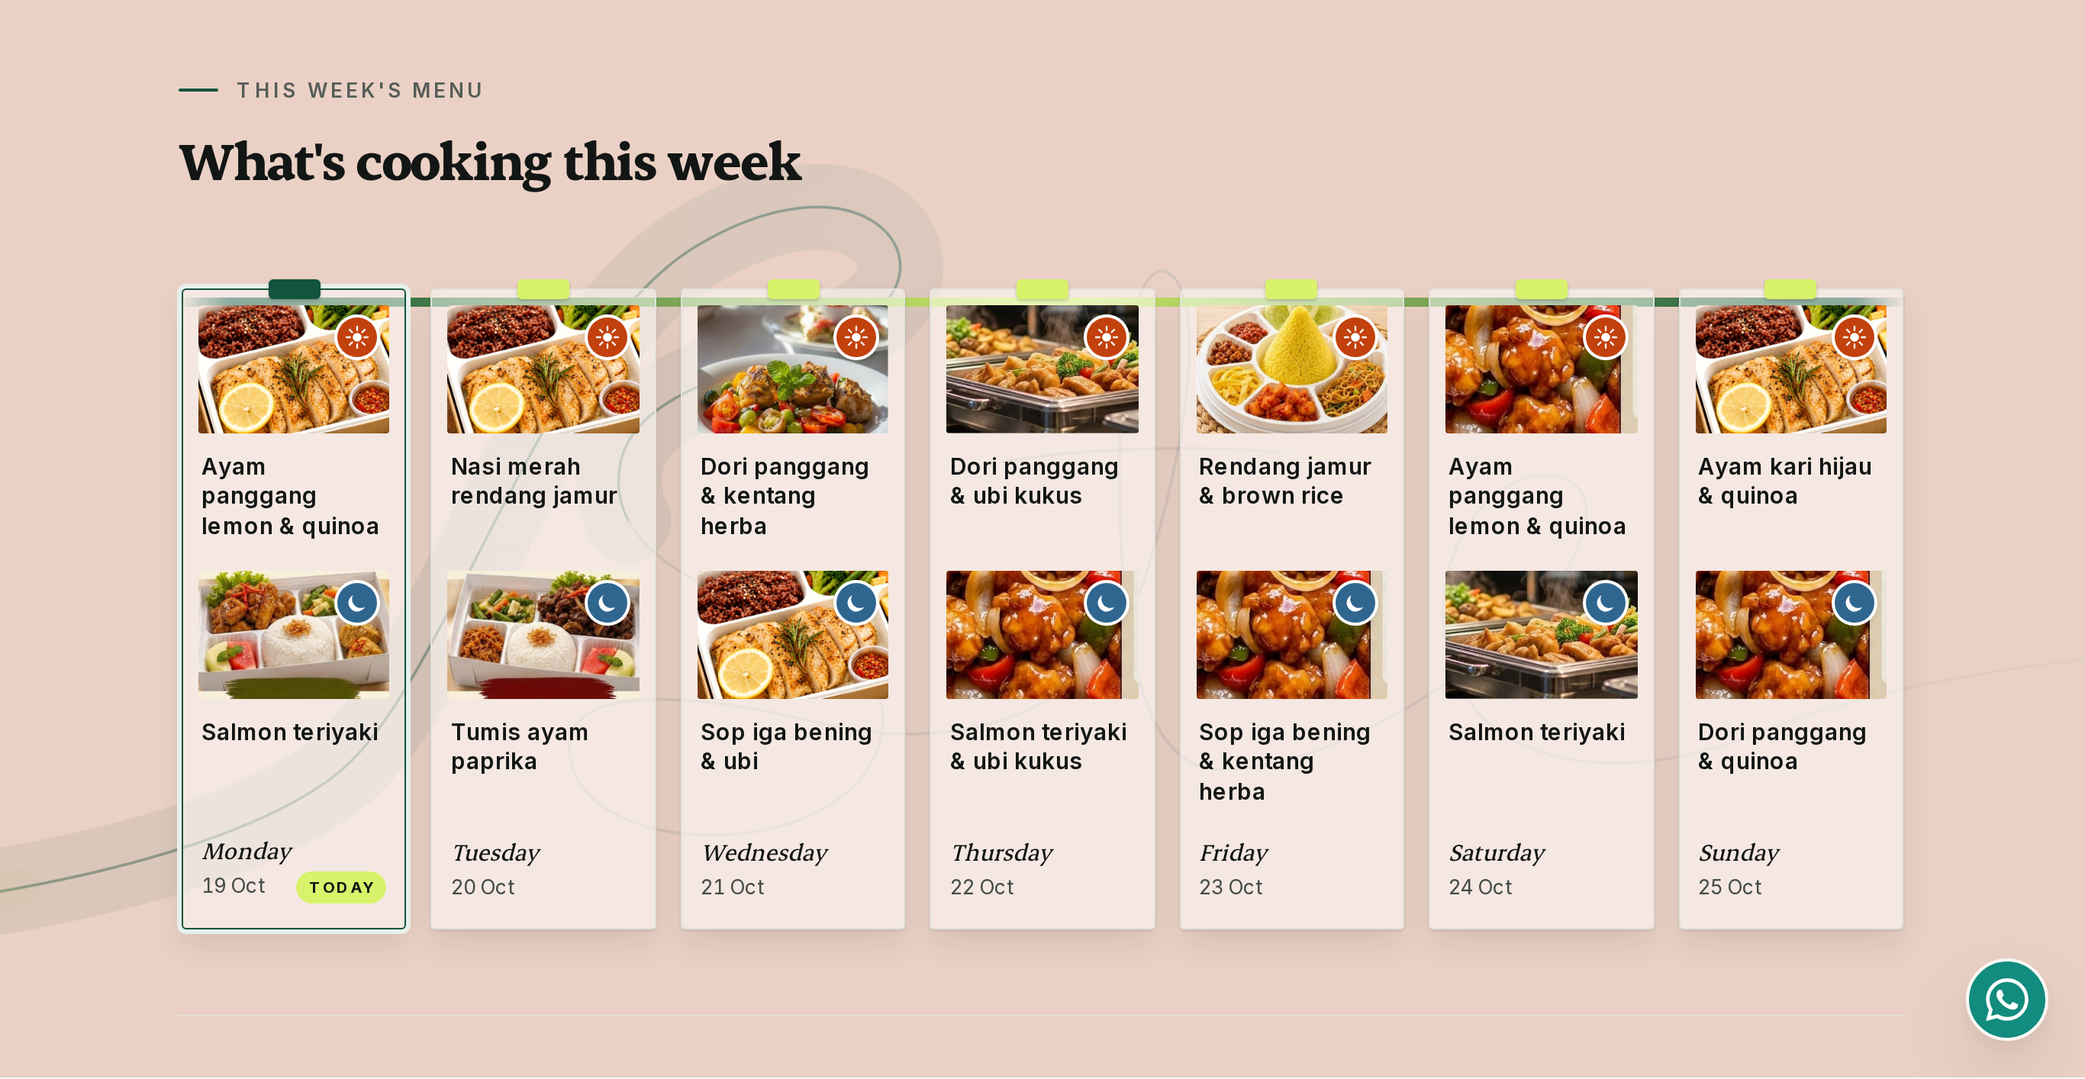
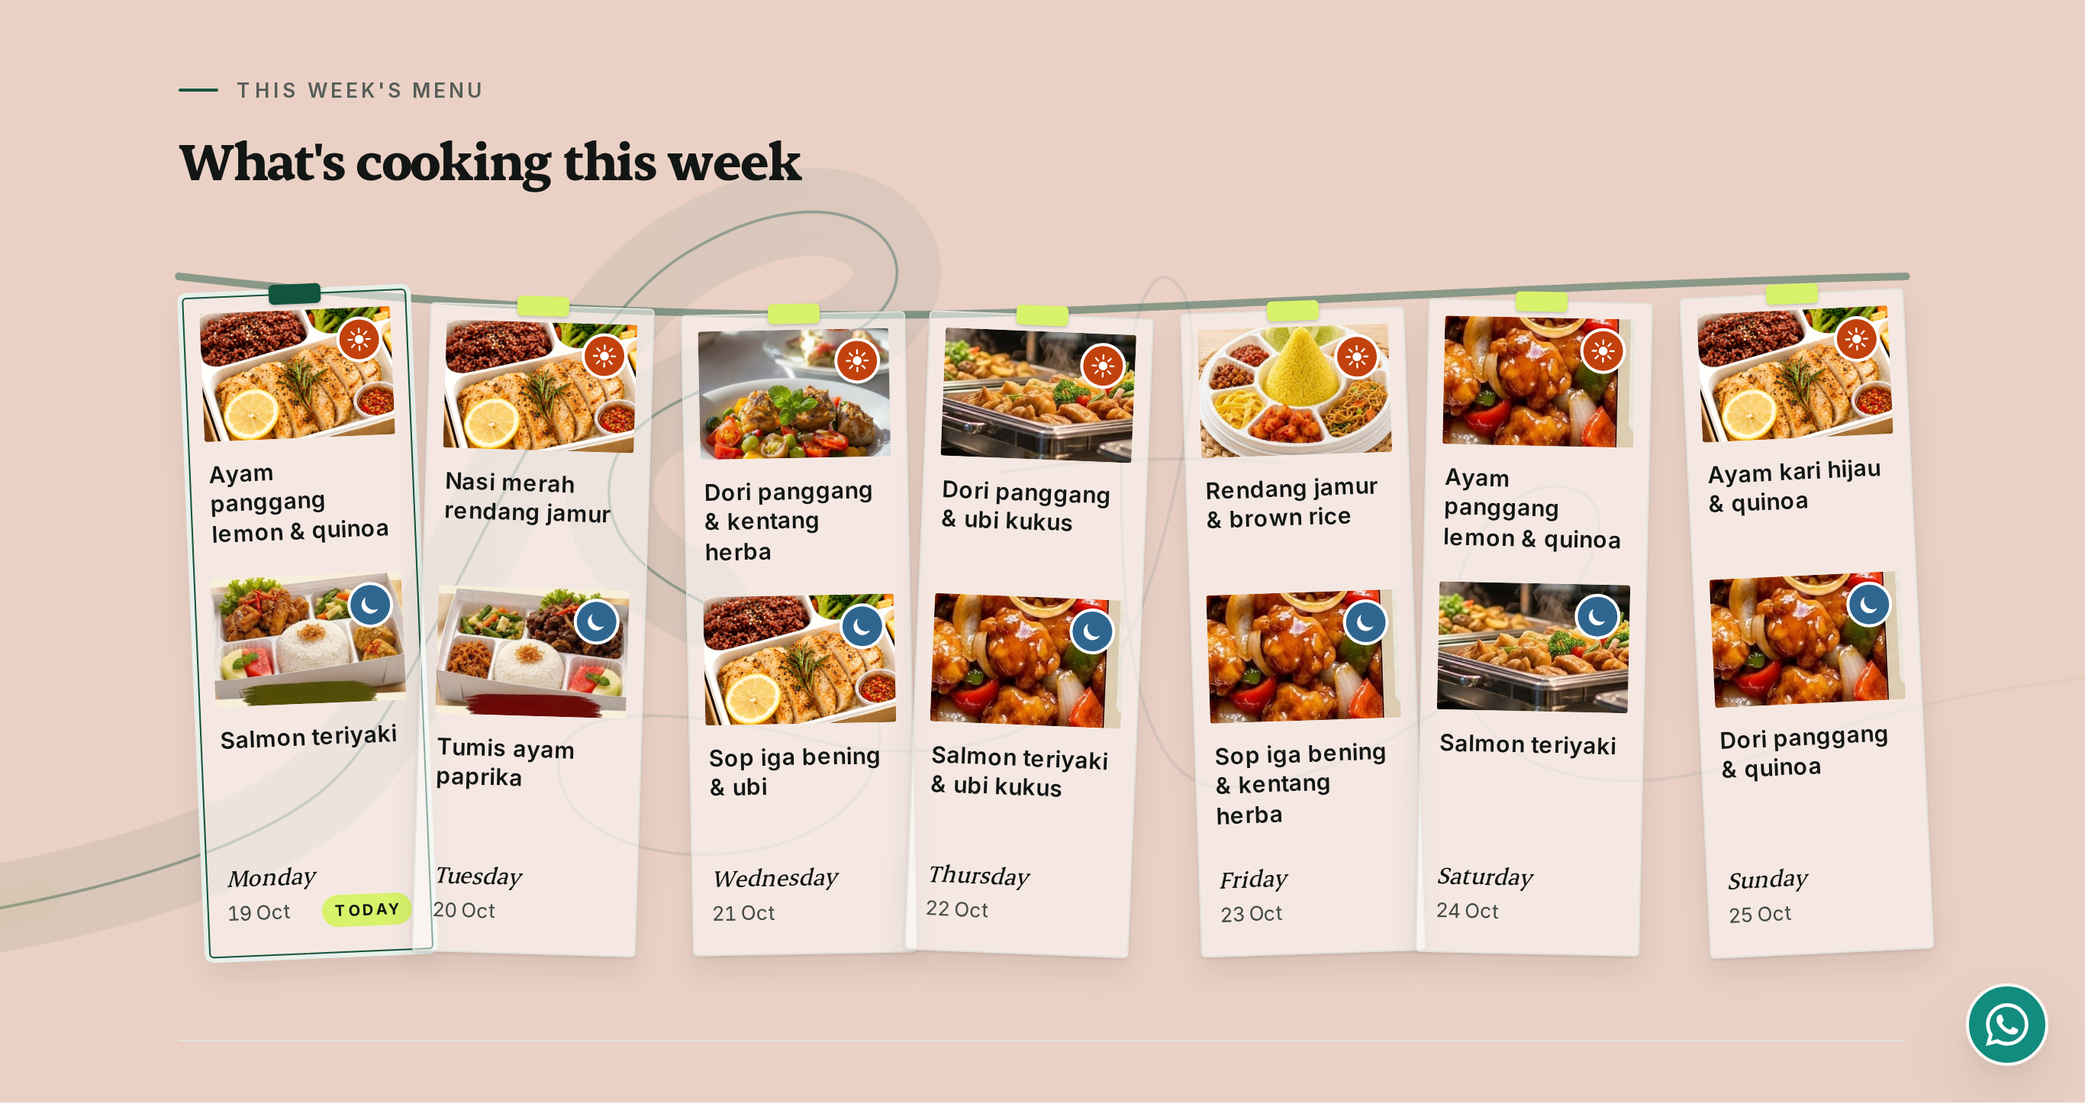
feat(home): hang the prints on a line, red crosses, orange popular flag
THE LINE (D76)
The week's photographs now hang the way prints hang on a drying string. Each
frame pivots from its peg rather than its centre, takes its own angle, and
hangs at the height the sagging line reaches at its own x — those drops are
read off the curve the line is drawn with, not guessed, so every peg actually
meets it.

The line had to stop being a background and become a real <svg>, because it has
to respond to the pointer. A transparent 26px-wide copy of the same curve sits
underneath as the hit target, so brushing the LINE sets it bobbing rather than
hovering anywhere in the section doing it, and :has() carries the sway from the
line out to the frames, staggered along the row.

This deliberately gives up the strict photo-row alignment of D70. The two
cannot both be true, and hanging is what was asked for second.

THE CROSS AND THE FLAG (D77)
The "not included" mark is red now. It is the one mark on the site that cannot
be pinned: the package card is a light green-grey in one theme and a dark green
in the other, and no single red clears 3:1 against both — the deep red that
reads at 3.90 on the light card measures 1.07 on the dark one, which is simply
invisible. So --cross flips with the theme, unlike every --ctl-* colour, and
the rejected single-value version is recorded as a failure.

"Most popular" becomes the pinned orange with white text (5.18) and a thumb
carrying a gradient so it catches the light (darkest stop 3.37). It is a shared
[…]

diff --git a/web/public/css/app.css b/web/public/css/app.css
@@ -400,7 +400,11 @@ tbody tr:hover { background: var(--warm); }
 
 .stats-strip { display: grid; grid-template-columns: repeat(2, 1fr); gap: var(--space-6); }
 @media (min-width: 720px) { .stats-strip { grid-template-columns: repeat(4, 1fr); } }
-.stat-item b { display: block; font-family: var(--font-display); font-size: var(--text-2xl);
+/* Centred, and the figure half again as large — it is the thing worth reading
+ * in this row, the label underneath only names it. */
+.stat-item { text-align: center; }
+.stat-item b { display: block; font-family: var(--font-display);
+  font-size: calc(var(--text-2xl) * 1.5);
   font-weight: var(--w-display); letter-spacing: var(--track-display); color: var(--ink); line-height: 1; }
 .stat-item .count { font-size: inherit; }
 .stat-item > span { display: block; font-size: var(--text-sm); color: var(--ink-faint); margin-top: var(--space-2); }
@@ -756,14 +760,7 @@ tbody tr:hover { background: var(--warm); }
 
 .weekstrip {
   display: grid; gap: var(--space-4);
-  /* The ribbon. `local` is what makes it scroll with the photographs. */
-  background-image: linear-gradient(90deg,
-      transparent 0, var(--brand) 3%, var(--accent) 50%, var(--brand) 97%, transparent 100%);
-  background-repeat: no-repeat;
-  background-size: 100% 6px;
-  background-position: 0 30px;
-  background-attachment: local;
-  padding-top: 24px;
+  padding-top: 20px;
   grid-auto-flow: column; grid-auto-columns: minmax(208px, 1fr);
   overflow-x: auto; overscroll-behavior-x: contain;
   scroll-snap-type: x proximity;
@@ -791,6 +788,80 @@ tbody tr:hover { background: var(--warm); }
 @media (min-width: 1180px) { .weekstrip { grid-auto-columns: 1fr; overflow-x: visible; } }
 
 /* ==========================================================================
+   D76 — the prints hang from the line.
+
+   Three things make it read as hanging rather than as a row of boxes: the
+   frames pivot from their PEG (`transform-origin: top center`), each one takes
+   a slightly different angle, and each hangs at the height the sagging line
+   reaches at its own x. The angles and drops are fixed per position, not
+   random at runtime — a layout that moves every reload is not a layout.
+
+   This deliberately gives up the strict photo-row alignment of D70. It cannot
+   have both, and hanging is what was asked for second.
+   ========================================================================== */
+.weekrail { position: relative; }
+.weekline {
+  position: absolute; z-index: 0; left: 0; right: 0; top: 0;
+  width: 100%; height: 56px; overflow: visible;
+  pointer-events: none;            /* the hit path re-enables itself below */
+}
+.weekline-ink {
+  fill: none; stroke: var(--brand); stroke-width: 5; stroke-linecap: round;
+  opacity: .45;
+  transform-box: fill-box; transform-origin: center;
+}
+/* A transparent, much fatter copy of the same curve: it is what the pointer
+ * can actually hit, so the effect fires on the LINE and not on the whole
+ * section. It is declared first so the visible path can be its sibling. */
+.weekline-hit {
+  fill: none; stroke: transparent; stroke-width: 26;
+  pointer-events: stroke;
+}
+.weekline-hit:hover ~ .weekline-ink { animation: lineTouch 1.15s var(--ease-soft); }
+
+@keyframes lineTouch {
+  0%   { transform: translateY(0) }
+  18%  { transform: translateY(3.2px) }
+  40%  { transform: translateY(-2.2px) }
+  62%  { transform: translateY(1.3px) }
+  82%  { transform: translateY(-.6px) }
+  100% { transform: translateY(0) }
+}
+/* The prints swing from their pegs when the line is brushed. :has() lets the
+ * sway live on the frames while the hover lives on the line; where it is not
+ * supported the line still bobs on its own. */
+@keyframes hangSwing {
+  0%   { rotate: var(--tilt) }
+  26%  { rotate: calc(var(--tilt) + 2.1deg) }
+  52%  { rotate: calc(var(--tilt) - 1.4deg) }
+  76%  { rotate: calc(var(--tilt) + .7deg) }
+  100% { rotate: var(--tilt) }
+}
+.weekrail:has(.weekline-hit:hover) .polaroid { animation: hangSwing 1.15s var(--ease-soft); }
+.weekrail:has(.weekline-hit:hover) .polaroid:nth-child(2) { animation-delay: .05s; }
+.weekrail:has(.weekline-hit:hover) .polaroid:nth-child(3) { animation-delay: .1s; }
+.weekrail:has(.weekline-hit:hover) .polaroid:nth-child(4) { animation-delay: .14s; }
+.weekrail:has(.weekline-hit:hover) .polaroid:nth-child(5) { animation-delay: .1s; }
+.weekrail:has(.weekline-hit:hover) .polaroid:nth-child(6) { animation-delay: .06s; }
+.weekrail:has(.weekline-hit:hover) .polaroid:nth-child(7) { animation-delay: .02s; }
+
+/* The hang: angle and drop per position. The drops follow the curve the line
+ * is drawn with, so every peg actually meets it. */
+.polaroid { --tilt: 0deg; --hang: 0px; }
+.weekstrip > .polaroid:nth-child(1) { --tilt: -2.4deg; --hang: 0px; }
+.weekstrip > .polaroid:nth-child(2) { --tilt: 1.7deg; --hang: 6px; }
+.weekstrip > .polaroid:nth-child(3) { --tilt: -1.1deg; --hang: 10px; }
+.weekstrip > .polaroid:nth-child(4) { --tilt: 2.3deg; --hang: 11px; }
+.weekstrip > .polaroid:nth-child(5) { --tilt: -1.9deg; --hang: 10px; }
+.weekstrip > .polaroid:nth-child(6) { --tilt: 1.2deg; --hang: 6px; }
+.weekstrip > .polaroid:nth-child(7) { --tilt: -2.7deg; --hang: 0px; }
+
+@media (prefers-reduced-motion: reduce) {
+  .weekline-hit:hover ~ .weekline-ink,
+  .weekrail:has(.weekline-hit:hover) .polaroid { animation: none; }
+}
+
+/* ==========================================================================
    D75 — the week is a row of polaroids strung on a ribbon.
 
    The frame is the whole idea: an even white border on three sides and a
@@ -816,9 +887,13 @@ tbody tr:hover { background: var(--warm); }
   padding: 10px 10px 0;
   display: flex; flex-direction: column;
   box-shadow: 0 1px 2px rgba(18, 22, 20, .10), 0 10px 20px rgba(18, 22, 20, .09);
-  transition: transform var(--dur) var(--ease), box-shadow var(--dur) var(--ease);
+  /* It pivots at the peg, like something actually hanging. */
+  transform-origin: top center;
+  rotate: var(--tilt);
+  margin-top: var(--hang);
+  transition: translate var(--dur) var(--ease), box-shadow var(--dur) var(--ease);
 }
-.polaroid:hover { transform: translateY(var(--lift)); box-shadow: var(--shadow-3); z-index: 3; }
+.polaroid:hover { translate: 0 var(--lift); box-shadow: var(--shadow-3); z-index: 3; }
 
 /* The clip that holds the photograph to the ribbon. */
 .polaroid::before {
@@ -1177,6 +1252,19 @@ tbody tr:hover { background: var(--warm); }
  * by its own height, so one card in three was out of step with the others. */
 .card-flag { position: absolute; top: var(--space-4); right: var(--space-4); margin: 0; z-index: 1; }
 
+/* The "most popular" flag: a pinned orange ribbon with a thumb that carries a
+ * gradient so it catches the light. White on the orange measures 5.18 and the
+ * thumb's darkest stop 3.37 — the icon only has to clear 1.4.11's 3:1. */
+.flag-popular {
+  display: inline-flex; align-items: center; gap: 6px;
+  background: var(--ctl-sun); color: #FFFFFF;
+  border-radius: var(--radius-pill); padding: 4px var(--space-3) 4px var(--space-2);
+  font-size: var(--text-xs); font-weight: 700; letter-spacing: .04em;
+  box-shadow: 0 1px 3px rgba(18, 22, 20, .28);
+}
+.flag-i { width: 15px; height: 15px; display: block; flex: none;
+          filter: drop-shadow(0 1px 0 rgba(18, 22, 20, .22)); }
+
 /* ---- package perks (D74) ------------------------------------------------
  * A tick or a cross against each line. The ICON carries the meaning, not the
  * colour — colour is never the only signal (CLAUDE.md §7) — so an excluded row
@@ -1190,7 +1278,7 @@ tbody tr:hover { background: var(--warm); }
 .perk.is-on  { color: var(--ink); }
 .perk.is-on  .perk-i { color: var(--brand); }
 .perk.is-off { color: var(--ink-on-glass); }
-.perk.is-off .perk-i { color: var(--ink-on-glass); }
+.perk.is-off .perk-i { color: var(--cross); }
 
 /* ---- testimonials (D53) -------------------------------------------------- */
 .testi-grid { display: grid; gap: var(--space-5); grid-template-columns: repeat(auto-fit, minmax(260px, 1fr)); }

diff --git a/web/templates/home.html b/web/templates/home.html
@@ -137,6 +137,15 @@
       <h2>{{t .L "week.title"}}</h2>
     </div>
 
+    {{/* D76 — the photographs hang from a line, the way prints hang on a
+         drying string. The line is a real <svg>, not a background, because it
+         has to react to the pointer: brushing it makes it bob, and the pegs
+         let the whole row sway with it. */}}
+    <div class="weekrail">
+      <svg class="weekline" viewBox="0 0 1200 56" preserveAspectRatio="none" aria-hidden="true" focusable="false">
+        <path class="weekline-hit" d="M0 14 Q 600 44 1200 14"/>
+        <path class="weekline-ink" d="M0 14 Q 600 44 1200 14"/>
+      </svg>
     <div class="weekstrip">
       {{range .Week}}
       {{/* D75 — a polaroid, not a card: the photographs sit inside a white
@@ -189,6 +198,7 @@
       </figure>
       {{end}}
     </div>
+    </div>
   </div>
 
   {{/* A hairline between the strip and the figures below it. The two are
@@ -221,7 +231,7 @@
       {{range .Packages}}
       <article class="card">
         <div class="card-body">
-          {{if .IsFeatured}}<p><span class="ribbon-gold">Paling laris</span></p>{{end}}
+          {{if .IsFeatured}}<p class="card-flag">{{template "flagPopular" $.L}}</p>{{end}}
           <h3>{{.MealCredits}} {{t $.L "pkg.portions"}}</h3>
           <p class="meta">{{rupiah .PerMealIDR}} {{t $.L "pkg.per"}} &middot; {{printf (t $.L "pkg.valid") (printf "%d" .ValidityDays)}}</p>
           <div class="card-foot">

diff --git a/web/public/css/tokens.css b/web/public/css/tokens.css
@@ -70,6 +70,10 @@
    * (D42): --info lightens to #8FB8DC in the dark theme, and a white glyph on
    * that measures 2.09 — so the moon takes its own fixed blue and is never
    * redefined below. White on each is 5.18 and 6.13. */
+  /* The "not included" mark. It cannot be pinned: a deep red reads at 3.90 on
+   * the light package card but 1.20 on the dark one, so it flips with the
+   * theme (D77). */
+  --cross: #A81E16;
   --ctl-sun:  #C2410C;
   --ctl-moon: #2F6690;
 
@@ -151,6 +155,7 @@
     --ink-soft:  #B4BBB6;  /*  9.55 */
     --ink-faint: #8E9691;  /*  6.16 */
     --ink-on-glass: #C3C9C5;
+    --cross: #F3A09A;
     --glass:      rgba(24, 28, 25, .50);
     --glass-tint: rgba(30, 36, 32, .50);
     --card-quiet: rgba(32, 38, 34, .62);
@@ -179,6 +184,7 @@
   --ink-soft:  #B4BBB6;
   --ink-faint: #8E9691;
   --ink-on-glass: #C3C9C5;
+  --cross: #F3A09A;
   --glass:      rgba(24, 28, 25, .50);
   --glass-tint: rgba(30, 36, 32, .50);
   --card-quiet: rgba(32, 38, 34, .62);

diff --git a/web/templates/base.html b/web/templates/base.html
@@ -222,3 +222,5 @@
   </g>
 </svg>
 {{end}}
+
+{{define "flagPopular"}}<span class="flag-popular"><svg class="flag-i" viewBox="0 0 16 16" aria-hidden="true"><defs><linearGradient id="thumbShine" x1="0" y1="0" x2="0" y2="1"><stop offset="0" stop-color="#FFE89A"/><stop offset=".55" stop-color="#FFD24D"/><stop offset="1" stop-color="#FFC933"/></linearGradient></defs><path fill="url(#thumbShine)" d="M6.6 14.6h5.1c.7 0 1.3-.4 1.5-1.1l1.4-3.6c.1-.2.1-.3.1-.5V8.2c0-.6-.5-1.1-1.1-1.1h-3.3l.5-2.5c.1-.3 0-.7-.2-.9l-.7-.7-3.5 3.9c-.2.2-.3.5-.3.8v5.8c0 .6.5 1.1 1.1 1.1Z"/><path fill="url(#thumbShine)" d="M1.9 7.3h2.2c.4 0 .7.3.7.7v5.9c0 .4-.3.7-.7.7H1.9c-.4 0-.7-.3-.7-.7V8c0-.4.3-.7.7-.7Z"/></svg><span>{{t . "cr.popular"}}</span></span>{{end}}

diff --git a/web/templates/packages.html b/web/templates/packages.html
@@ -10,7 +10,7 @@
       {{range .Packages}}
       <article class="card">
         <div class="card-body">
-          {{if .IsFeatured}}<p class="card-flag"><span class="pill pill-warn">{{t $.L "cr.popular"}}</span></p>{{end}}
+          {{if .IsFeatured}}<p class="card-flag">{{template "flagPopular" $.L}}</p>{{end}}
           <h2 style="font-size:var(--text-xl)">{{.Name}}</h2>
           <p class="price">{{rupiah .PriceIDR}}</p>
           {{/* D74 — what the tier includes, as data from the package row, so

diff --git a/scripts/contrast.py b/scripts/contrast.py
@@ -239,6 +239,15 @@ CHECKS: list[tuple[str, str, str, dict]] = [
     ("brand as the perk tick on tinted glass", BRAND, "#ACC2B9", {"non_text": True}),
     ("brand-lt as the perk tick on dark tinted glass", BRAND_LT, "#35594A", {"non_text": True}),
 
+    # --- the "not included" cross and the popular flag (D77). The cross cannot
+    # be pinned: a deep red is 3.90 on the light package card and 1.20 on the
+    # dark one, so it flips with the theme. Both are icons: 1.4.11, 3:1.
+    ("cross on the light package card", "#A81E16", "#ACC2B9", {"non_text": True}),
+    ("cross-lt on the dark package card", "#F3A09A", "#35594A", {"non_text": True}),
+    ("one red cross for both themes (REJECTED)", "#A81E16", "#35594A", {"non_text": True}),
+    ("white on the popular flag", WHITE, "#C2410C", {}),
+    ("the thumb's darkest stop on the popular flag", "#FFC933", "#C2410C", {"non_text": True}),
+
     # --- the WhatsApp float
     ("WA teal on paper", "#128C7E", PAPER, {"non_text": True}),
     ("WA white glyph on the teal", WHITE, "#128C7E", {"non_text": True}),
@@ -326,6 +335,11 @@ RECORDED: dict[str, float] = {
     "info as a badge fill, dark theme (REJECTED)": 2.09,
     "brand as the perk tick on tinted glass": 4.72,
     "brand-lt as the perk tick on dark tinted glass": 4.16,
+    "cross on the light package card": 3.90,
+    "cross-lt on the dark package card": 3.85,
+    "one red cross for both themes (REJECTED)": 1.07,
+    "white on the popular flag": 5.18,
+    "the thumb's darkest stop on the popular flag": 3.37,
     "WA teal on paper": 3.92,
     "WA white glyph on the teal": 4.14,
 }

diff --git a/docs/00-README-and-decisions.md b/docs/00-README-and-decisions.md
@@ -156,6 +156,9 @@ in the affected docs the same day.
 | D73 | 2026-10-19 | **The sun and moon are redrawn: a small disc with long fine rays, and a true two-arc lune.** | Steven — the previous pair read as stock icon-library glyphs. The sun's problem was proportion, not concept: a fat disc ringed by eight short fat capsules is the default weather glyph, so the disc shrinks to r=4.35 and the rays get longer and finer. The moon is built from the geometry — the two circle intersection points and an arc along each circle. The earlier `fill-rule="evenodd"` version was wrong in a way that is easy to miss: evenodd on two circles fills the **symmetric difference**, so the sliver of the inner circle poking past the rim was painted too and the glyph read as a ring with a notch. | home.html |
 | D74 | 2026-10-19 | **The package cards become Basic / Reguler / Premium with a tick-or-cross feature list.** | Steven supplied the matrix. The perks are **data, not template copy** — migration 0007 adds `free_delivery`, `free_allergen_custom`, `dietician_sessions` and `daily_fruit` to `package`, with a `CHECK` that sessions cannot go negative — so the card and what a customer actually buys cannot drift, and the back office can change a tier without a deploy. Premium's validity moves 120 → 90 days per the matrix. The tick is an icon, so colour is never the only signal: the row text says it either way. The `Most popular` flag moves to the card corner, out of flow, because in flow it pushed one card in three out of step. | 0007_package_perks.{up,down}.sql, seed.go, postgres/public.go, packages.html, app.css, messages.go |
 | D75 | 2026-10-19 | **The week strip becomes a row of polaroids strung on a ribbon.** | Steven. Each day is a `<figure>` with a white frame, a deeper caption strip and the day written on it in the display italic; a lime clip holds it to a ribbon that runs behind the row. The ribbon is a **background with `background-attachment: local`**, so it scrolls with the photographs instead of staying pinned while they slide past it. The frames are deliberately **not tilted**: a scatter of tilted polaroids is the obvious move and it contradicts D70, where the photographs were asked to line up — shape and proportion carry the reference instead. Today keeps three signals: a green clip, a ring and the worded badge. | home.html, app.css |
+| D76 | 2026-10-19 | **The prints hang from a line and sway when it is brushed.** | Steven, with a photograph of prints pegged to a drying string. Each frame pivots from its PEG (`transform-origin: top center`), takes its own angle, and hangs at the height the sagging line reaches at its own x — the drops are read off the curve, not guessed. The line is a real `<svg>` now, not a background, because it has to respond: a transparent 26px-wide copy of the curve is the hit target, so the effect fires on the LINE and not on the section, and `:has()` carries the sway from the line to the frames. **This gives up the strict photo alignment of D70** — it cannot have both, and hanging was asked for second. | home.html, app.css |
+| D77 | 2026-10-19 | **The `not included` mark turns red, and `Most popular` becomes an orange ribbon with a shiny thumb.** | Steven. `--cross` is the **one mark on the site that cannot be pinned**: a deep red reads at 3.90 on the light package card and **1.07** on the dark one, so it flips with the theme while every `--ctl-*` colour does not. The flag is the pinned orange with white text (5.18) and a thumb carrying a gradient, darkest stop 3.37. It is a shared partial now, which also retired the hardcoded Indonesian `Paling laris` on the home page. | tokens.css, app.css, base.html, packages.html, home.html, contrast.py |
+| D78 | 2026-10-19 | **The stats row is centred and its figures are half again as large** (38 → 57px). | Steven. Checked for overflow at 1366/1024/820/720/390 — none; the soft separators still land between the items. | app.css |
 
 ---
 

diff --git a/docs/10-design-system.md b/docs/10-design-system.md
@@ -244,7 +244,23 @@ stop reading. `--ctl-moon` is a fixed `#2F6690` and is never redefined.
 | white on the moon badge | **6.13** | AA |
 | info as a badge fill, dark theme (REJECTED) | **2.09** | FAIL |
 
-### 2.11 The WhatsApp float
+### 2.11 The cross, and the popular flag (D77)
+
+| Pairing | Ratio | Verdict |
+|---|---|---|
+| cross on the light package card | **3.90** | PASS 1.4.11 |
+| cross-lt on the dark package card | **3.85** | PASS 1.4.11 |
+| one red cross for both themes (REJECTED) | **1.07** | FAIL 1.4.11 |
+| white on the popular flag | **5.18** | AA |
+| the thumb's darkest stop on the popular flag | **3.37** | PASS 1.4.11 |
+
+`--cross` is the one mark on the site that **cannot** be pinned. The package
+card is a light green-grey in the light theme and a dark green in the dark one,
+and no single red clears 3:1 against both — the deep red that reads at 3.90 on
+the light card measures **1.07** on the dark one, which is invisible. It
+therefore flips with the theme, unlike every `--ctl-*` colour.
+
+### 2.12 The WhatsApp float
 
 | Pairing | Ratio | Verdict |
 |---|---|---|
